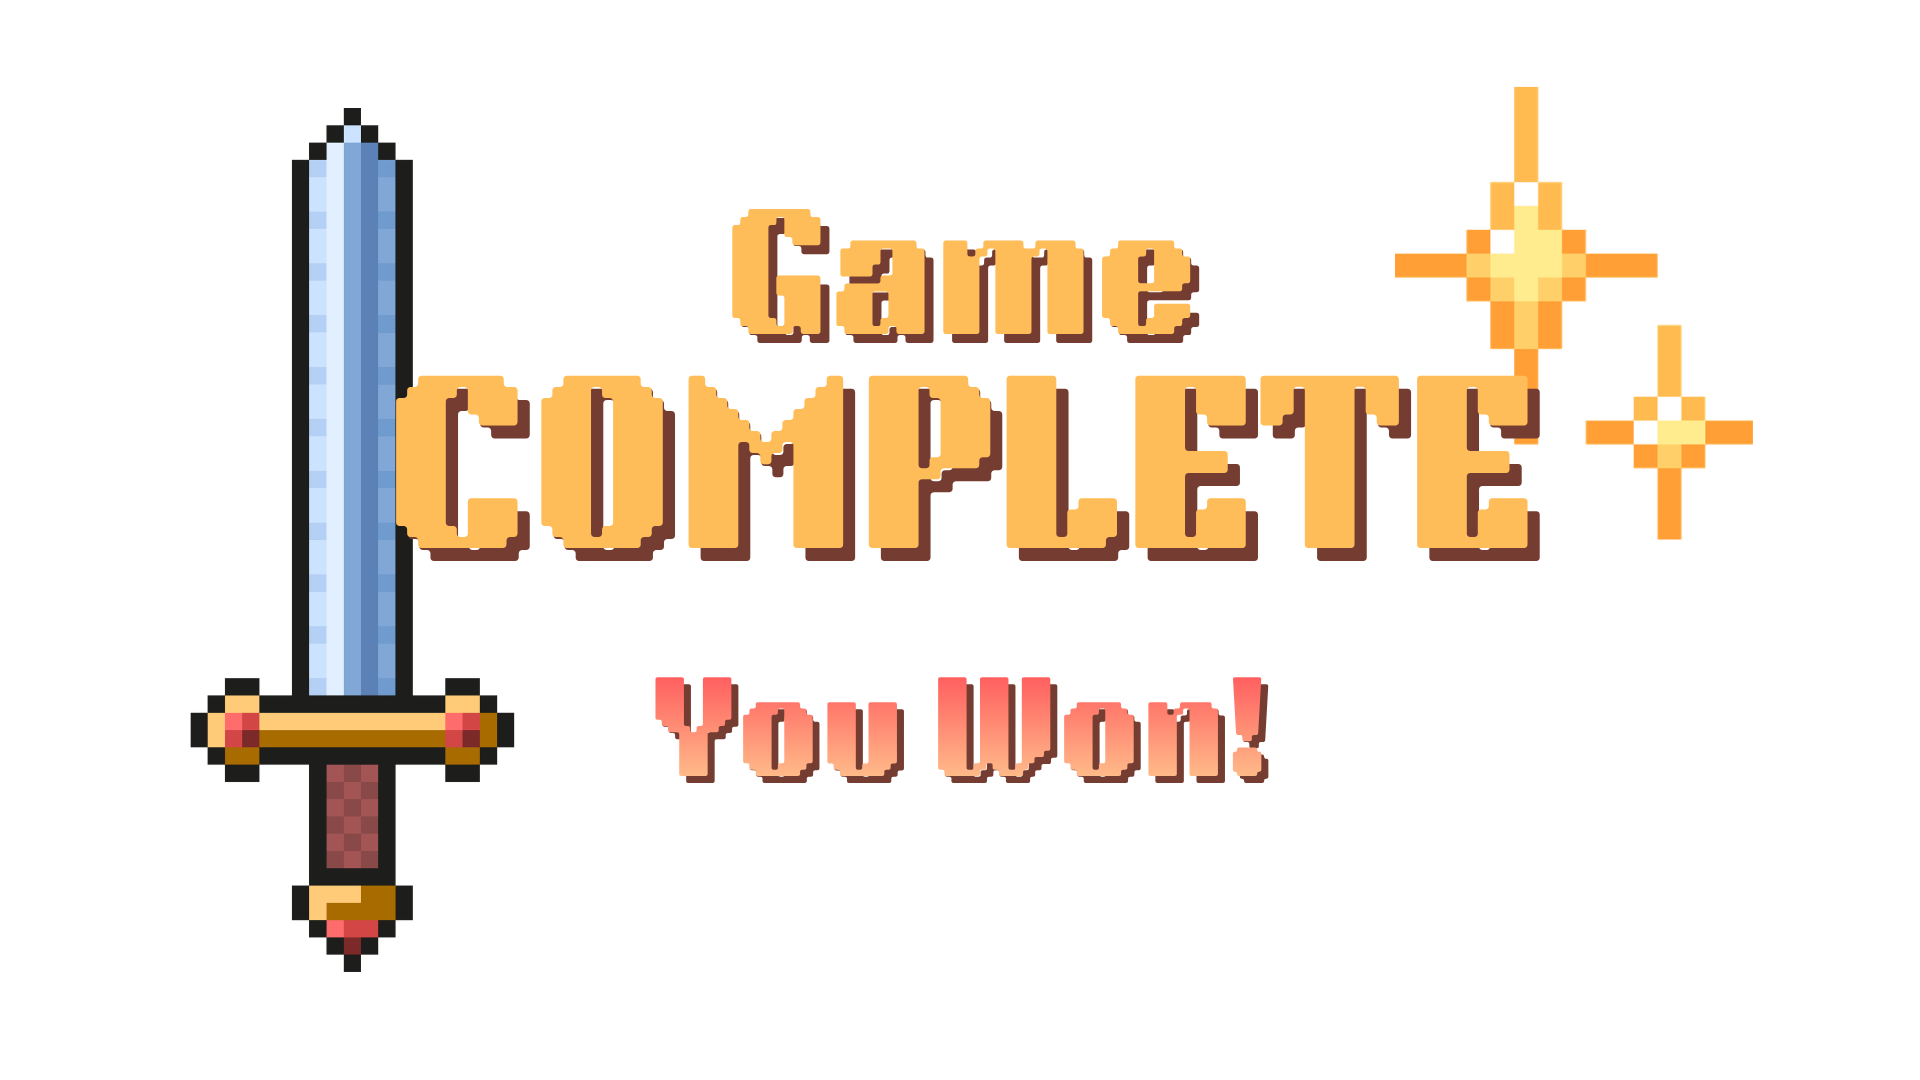
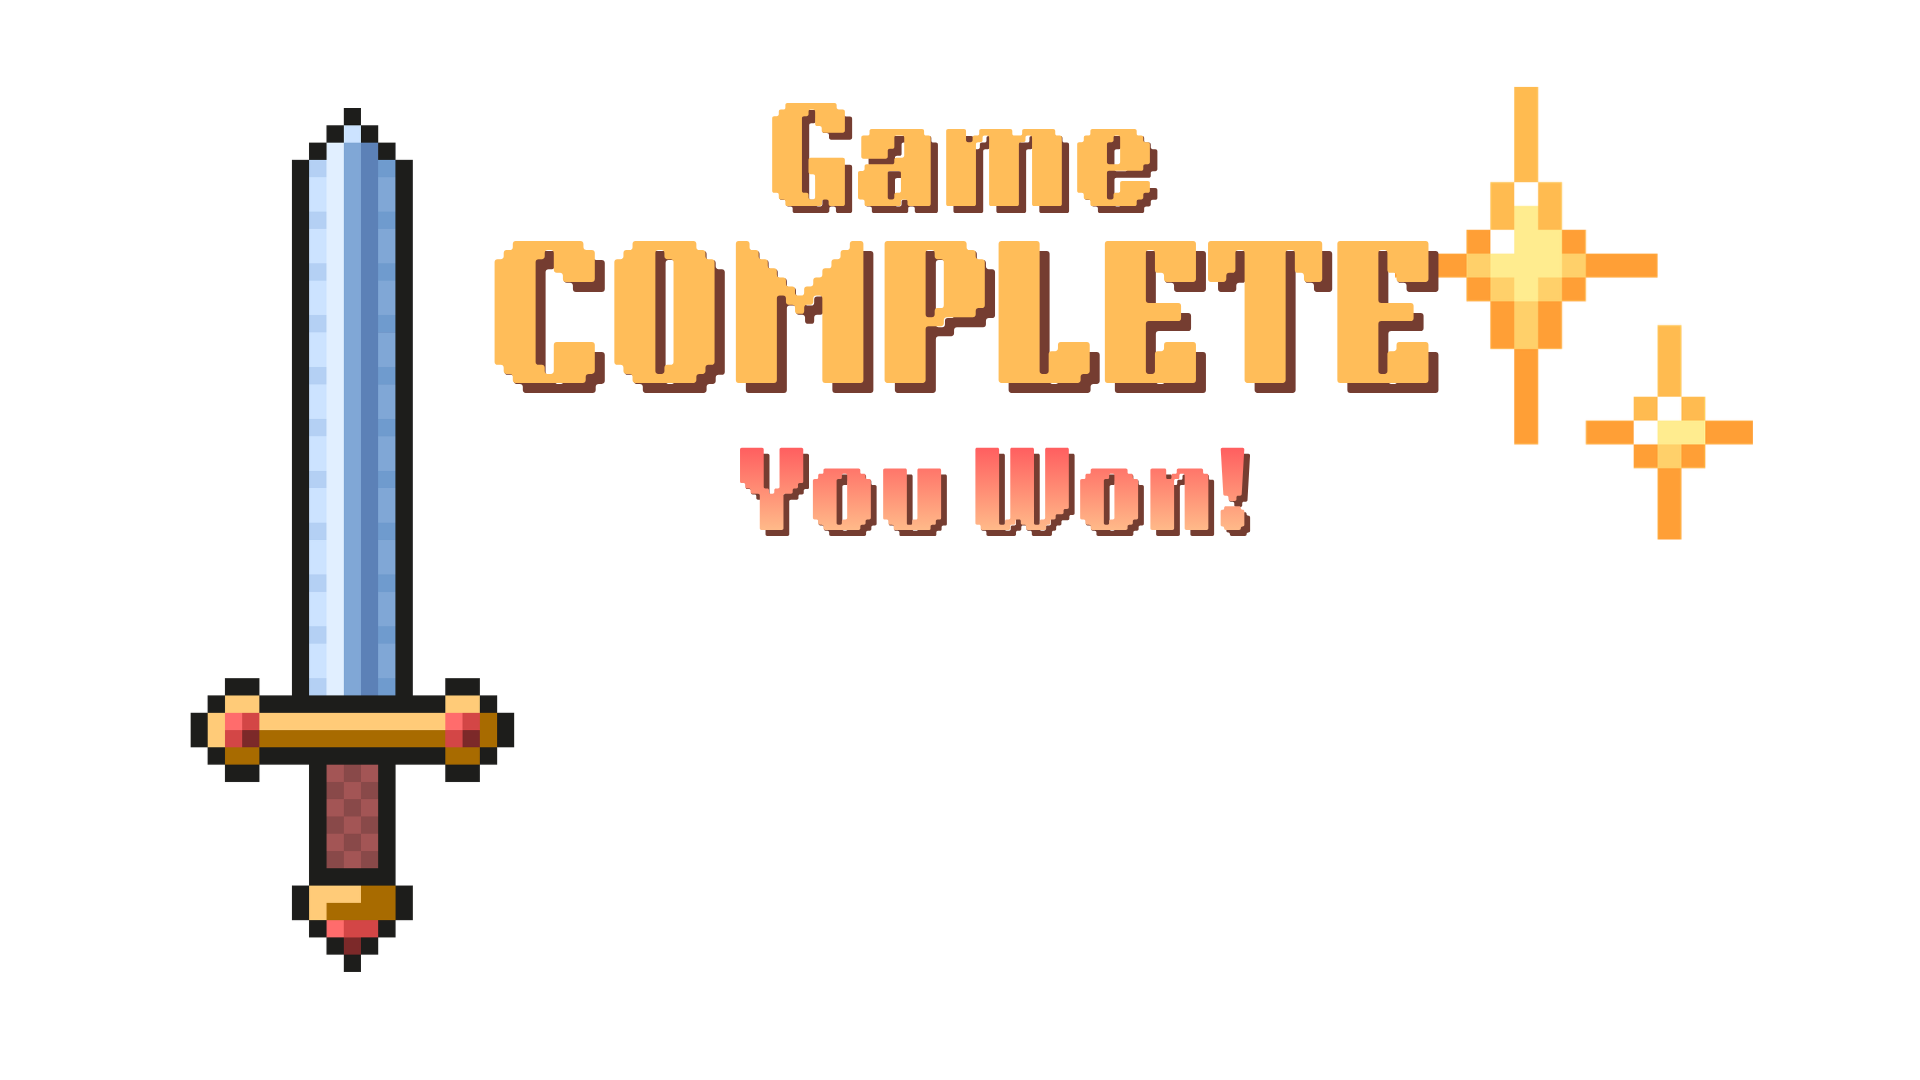
Adjusted

Changed region(s): [[0.1875, 0.0917, 0.8125, 0.5194], [0.3438, 0.6111, 0.6875, 0.7333]]

diff --git a/Codes/WinPanel.java b/Codes/WinPanel.java
@@ -1,5 +1,7 @@
 package Codes;
 
+// Victory screen when player completes the game
+
 import java.awt.Dimension;
 import java.awt.Graphics;
 import java.awt.Image;
@@ -10,9 +12,9 @@ import javax.swing.ImageIcon;
 import javax.swing.JPanel;
 
 public class WinPanel extends OverlayPanel {
-    private JPanel container;
+    private JPanel container; // Inner container panel used to roganize and position UI components
 
-    private Image background = new ImageIcon("Entities/UserInterface/gameWon/game_won.png").getImage();
+    private Image background = new ImageIcon("Entities/UserInterface/gameWon/game_won.png").getImage(); // Full screen background image rendered behind all UI components
     private GameButton mainMenuBtn = new GameButton("mainmenuButton.png", "mainmenuButton_pressed.png", null);
     private GameButton exitBtn = new GameButton("MainMenu/exitButton.png", "MainMenu/exitButton_pressed.png", null);
 
@@ -32,7 +34,7 @@ public class WinPanel extends OverlayPanel {
         exitBtn.setAlignmentX(CENTER_ALIGNMENT);
 
         mainMenuBtn.setButtonSize(300, 100);
-        exitBtn.setButtonSize(300, 100);
+        exitBtn.setButtonSize(300, 80);
 
         mainMenuBtn.addActionListener(e -> {
             SaveManager.deleteSave();